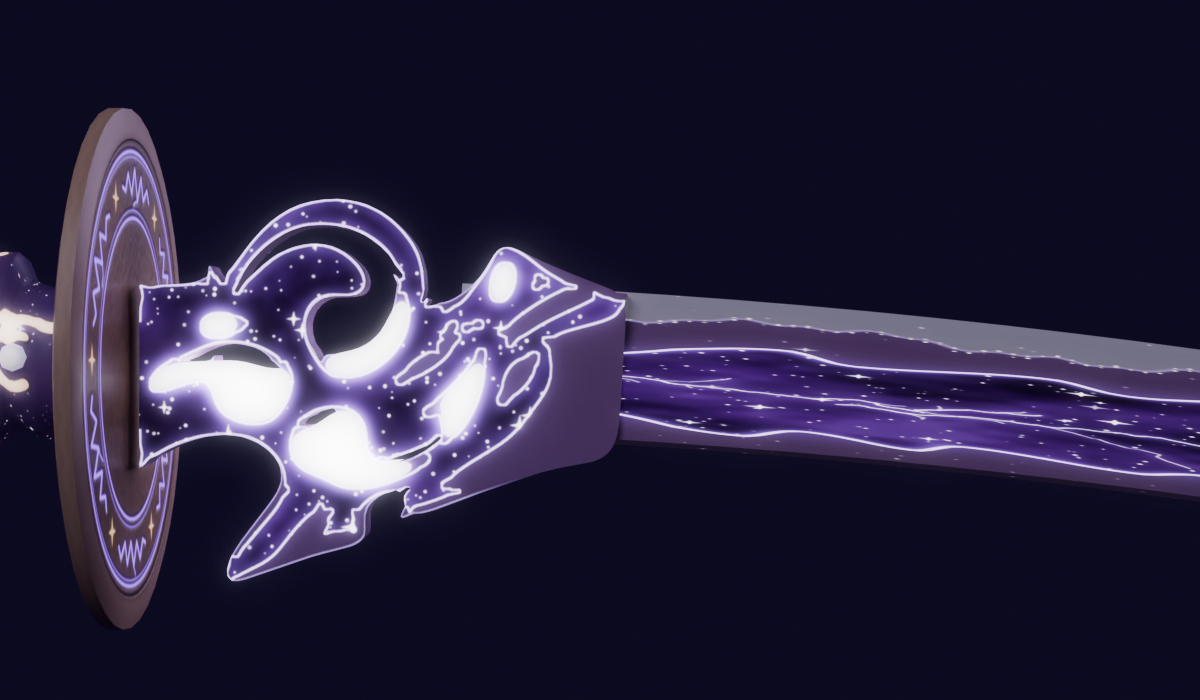
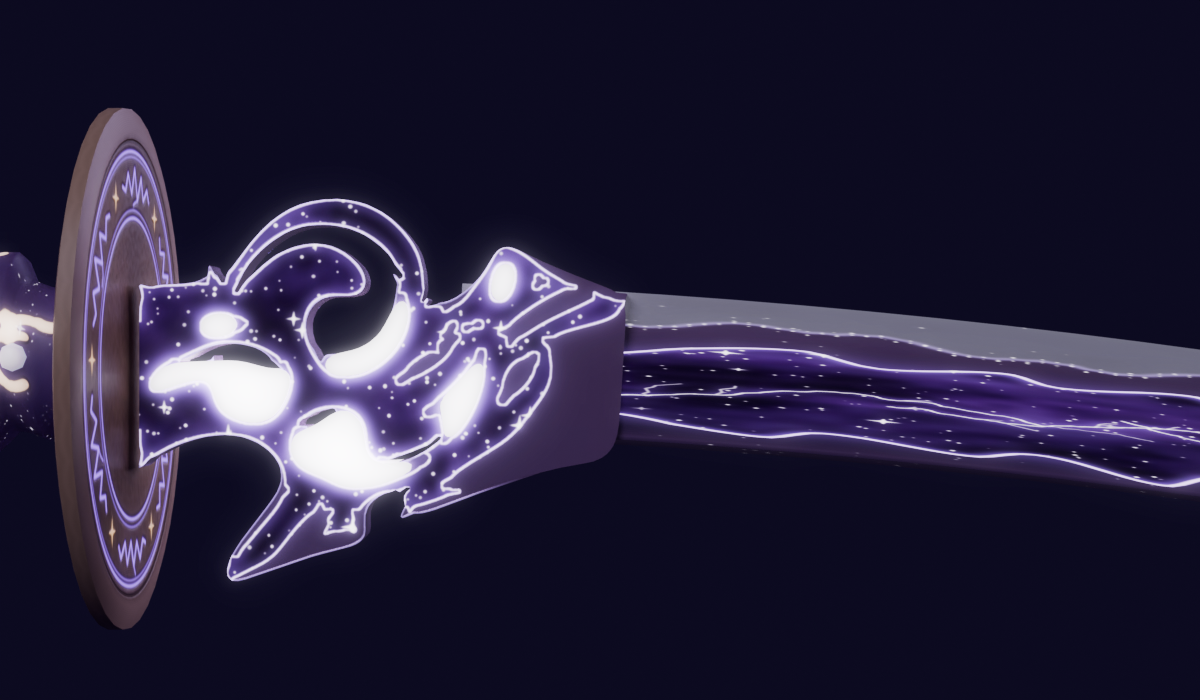
Give the katana blade a real steel look
- Baked polished-steel shading across the blade width (fixing the
  vertical gradient orientation): a bright reflection band on the hira
  near the ridge, a glinting shinogi line, a dark mirror-polished
  shinogi-ji with lengthwise polish lines, a highlight on the mune.
- Subtle itame/mokume grain on the hira, a yokote line at the kissaki.
- Frosted hamon with ashi, nie and utsuri; the boshi turns back at the
  tip; a fine sharpened line along the edge.
- Blade material: metallic 0.35, roughness 0.25 in Blender; README
  suggests lilToon reflection settings.
- Previews re-rendered, preview_steel.png added; textures optimized.

Claude-Session: https://claude.ai/code/session_012gEtFQGHvsjjhHKyZSbX21

diff --git a/katana/make_katana_texture.py b/katana/make_katana_texture.py
@@ -99,6 +99,11 @@ def vgradient(size, stops):
     return img.resize((w, h))
 
 
+def vgradient_v(size, stops):
+    """刀身用: UV の縦 v (0 = 刃先 = 画像の下, 1 = 峰 = 画像の上) で指定する縦のグラデーション。"""
+    return vgradient(size, [(1 - s, c) for s, c in reversed(stops)])
+
+
 def blur(img, r):
     return img.filter(ImageFilter.GaussianBlur(r * F))
 
@@ -271,8 +276,9 @@ def grain(size, along=40, across=1.2, amount=1.0):
 
 
 def draw_blade(maps):
-    """刀身。写真の配色 (灰みのある薄紫の地・深い紫の炎の模様・銀白の刃先) を土台に、
-    真珠のような地の移ろい、地肌の流れ、星雲の模様、光る縁取り、稲妻、星のきらめきで幻想的に。"""
+    """刀身。写真の配色 (灰みのある薄紫の地・深い紫の炎の模様・銀白の刃先) を土台に、本物の刀の鋼の見え方:
+    平地の板目・杢目の地肌、鏡のように磨いた鎬地と磨きの筋、光る鎬の稜線、横手、霜のように白い刃文と足・沸、
+    切っ先の帽子。その上に星雲の模様、光る縁取り、稲妻、星のきらめきで幻想的に。"""
     x0, y0, x1, y1 = uv_box(UV_BLADE)
     w, h = x1 - x0, y1 - y0
     rng = random.Random(11)
@@ -283,41 +289,92 @@ def draw_blade(maps):
     # ---- 地: 真珠のように根元 → 切っ先へ移ろう薄紫 (桜色寄り → 青み → 切っ先は明るく)
     tint = hgradient((w, h), [(0.0, (188, 142, 200)), (0.25, (194, 144, 204)), (0.50, (182, 142, 206)),
                               (0.72, (174, 148, 212)), (0.90, (190, 160, 218)), (1.0, (214, 190, 230))])
-    # 鎬 (v 0.36) に沿った磨きの光の筋と、峰側のわずかな陰
-    shade = vgradient((w, h), [(0.0, (255, 255, 255)), (0.30, (250, 248, 254)), (0.36, (255, 255, 255)),
-                               (0.42, (246, 242, 250)), (0.80, (240, 236, 248)), (1.0, (250, 248, 255))])
+    # 鋼の面の明るさ (UV の縦: 0 = 刃先, 0.55 = 鎬, 0.85 = 峰の肩, 1 = 峰の頂)
+    #   平地: 鎬に近いほど明るい磨きの光 / 鎬: 細く光る稜線 / 鎬地: 鏡のように磨き込んだ一段深い色 / 峰: 中くらい
+    #   (トゥーン系のシェーダーでも金属らしく見えるよう、磨いた鋼の明暗を描き込む)
+    shade = vgradient_v((w, h), [(0.0, (226, 224, 234)), (0.015, (255, 255, 255)), (0.20, (250, 248, 254)),
+                               (0.30, (222, 216, 234)), (0.40, (246, 242, 252)), (0.46, (255, 255, 255)),
+                               (0.51, (244, 240, 250)), (0.545, (255, 255, 255)), (0.552, (255, 255, 255)),
+                               (0.566, (146, 138, 172)), (0.66, (128, 120, 158)), (0.77, (146, 138, 174)),
+                               (0.825, (226, 220, 240)), (0.845, (170, 162, 194)), (0.86, (236, 232, 246)),
+                               (0.93, (210, 204, 230)), (1.0, (186, 180, 210))])
     img = ImageChops.multiply(tint, shade)
-    gr = blur(grain((w, h), along=140, across=3.0, amount=0.9), 1.5)       # 地肌のやわらかな流れ
-    img = ImageChops.multiply(img, Image.merge("RGB", [gr.point(lambda v: int(248 + (v - 128) * 0.05))] * 3))
+    base_glow = img.copy()                                              # 発光の土台 (細部なし)
+    yy, xx = np.mgrid[0:h, 0:w].astype(np.float32)
+    V = 1 - yy / (h - 1)
+    # 平地の地肌: 板目・杢目 (木目のように流れて渦を巻く鍛えの模様)。ゆがませた等高線で描く
+    n1 = np.asarray(Image.effect_noise((max(2, w // int(90 * F)), max(2, h // int(14 * F))), 60)
+                    .resize((w, h), Image.BICUBIC), np.float32) / 255.0
+    n2 = np.asarray(Image.effect_noise((max(2, w // int(30 * F)), max(2, h // int(6 * F))), 60)
+                    .resize((w, h), Image.BICUBIC), np.float32) / 255.0
+    wood = np.sin((V * 80 + n1 * 14.0 + n2 * 3.0) * math.tau) * 0.5 + 0.5
+    wood = wood ** 4                                                      # 細い木目の線に
+    hira = np.clip((0.535 - V) / 0.02, 0, 1) * np.clip(V / 0.03, 0, 1)
+    jihada = Image.fromarray((wood * hira * 255).astype(np.uint8), "L")
+    img.paste((150, 112, 176), (0, 0), blur(jihada, 0.7).point(lambda a: a * 0.07))
+    img.paste((246, 236, 255), (0, 0), ImageChops.offset(blur(jihada, 0.7), 0, int(1 * F)).point(lambda a: a * 0.05))
+    # 鎬地の磨きの筋: 長さ方向にまっすぐ流れる細い線 (鏡のように磨き込んだ跡)
+    pol = np.asarray(Image.effect_noise((max(2, w // int(400 * F)), max(2, int(h / (0.9 * F)))), 50)
+                     .resize((w, h), Image.BICUBIC), np.float32) / 255.0 - 0.5
+    sj = np.clip((V - 0.56) / 0.01, 0, 1) * np.clip((0.84 - V) / 0.01, 0, 1)
+    polish = blur(Image.fromarray(np.clip(128 + pol * sj * 26, 0, 255).astype(np.uint8), "L"), 0.6)
+    img = ImageChops.add(ImageChops.subtract(img, Image.merge("RGB", [polish.point(lambda a: max(0, 128 - a))] * 3)),
+                         Image.merge("RGB", [polish.point(lambda a: max(0, a - 128))] * 3))
+    del n1, n2, wood, hira, pol, sj, yy, xx, V
+    # 鎬の稜線と、刃先のごく細い研ぎ澄ました線
+    lines = Image.new("L", (w, h), 0)
+    ld = ImageDraw.Draw(lines)
+    ld.line([(0, Y(0.55)), (w, Y(0.55))], fill=255, width=max(1, int(2 * F)))
+    img.paste((252, 248, 255), (0, 0), blur(lines, 1.0).point(lambda a: a * 0.7))
+    yok = int(w * 0.88)                                                   # 横手: 切っ先の始まりの線
+    yl = Image.new("L", (w, h), 0)
+    ImageDraw.Draw(yl).line([(yok, Y(0.0)), (yok, Y(0.55))], fill=255, width=max(1, int(2 * F)))
+    img.paste((150, 120, 180), (0, 0), blur(yl, 0.8).point(lambda a: a * 0.6))
+    img.paste((250, 246, 255), (0, 0), ImageChops.offset(blur(yl, 0.8), int(2 * F), 0).point(lambda a: a * 0.6))
 
-    # ---- 刃文: 刃先の銀白の帯 (のたれ + 互の目)。刃先ほど明るく、境目に淡い紫の匂と光る沸
+    # ---- 刃文: 霜のように白い匂の帯 (のたれに互の目)。切っ先では帽子として小丸に返る
     hamon = [(0, Y(0.0))]
     ph = rng.uniform(0, math.tau)
     for xi in range(0, w + 1, int(8 * F)):
         u = xi / w
-        v = 0.15 + 0.025 * math.sin(u * 46 + ph) + 0.012 * math.sin(u * 151 + ph * 2) + 0.008 * math.sin(u * 377)
-        v *= 1.0 if u < 0.9 else max(0.2, 1 - (u - 0.9) * 6)
+        v = 0.17 + 0.03 * math.sin(u * 46 + ph) + 0.015 * math.sin(u * 151 + ph * 2) + 0.01 * abs(math.sin(u * 377))
+        if u > 0.88:                                                      # 帽子: 横手から先はおだやかに、先端で返る
+            v = 0.17 + 0.01 * math.sin(u * 151)
+            if u > 0.97:
+                v *= max(0.0, 1 - (u - 0.97) / 0.03) ** 0.5
         hamon.append((xi, Y(v)))
     hamon.append((w, Y(0.0)))
     hm = Image.new("L", (w, h), 0)
     ImageDraw.Draw(hm).polygon(hamon, fill=255)
-    hm_soft = blur(hm, 2)
-    edge_col = ImageChops.multiply(vgradient((w, h), [(0.0, (244, 242, 250)), (0.12, (228, 224, 236)), (0.2, (214, 208, 228)), (1.0, (214, 208, 228))]),
-                                   Image.merge("RGB", [gr.point(lambda v: int(252 + (v - 128) * 0.03))] * 3))
+    hm_soft = blur(hm, 3)
+    edge_col = vgradient_v((w, h), [(0.0, (248, 248, 252)), (0.03, (236, 234, 244)), (0.10, (232, 230, 242)),
+                                  (0.2, (226, 222, 238)), (1.0, (226, 222, 238))])
+    frost = nebula((w, h), rng, [(226, 222, 238), (240, 238, 248), (250, 250, 255)], scale=70, detail=2)
+    edge_col = ImageChops.multiply(edge_col, Image.blend(frost, Image.new("RGB", (w, h), (255, 255, 255)), 0.35))
     img.paste(edge_col, (0, 0), hm_soft)
-    utsuri = ImageChops.subtract(blur(hm, 18), hm)                     # 刃文の上の霞のような映り
-    img.paste((214, 196, 232), (0, 0), utsuri.point(lambda a: a * 0.35))
-    nioi = Image.new("L", (w, h), 0)                                     # 匂口: 淡い紫に光る細い線
-    ImageDraw.Draw(nioi).line(hamon[1:-1], fill=255, width=int(3 * F))
-    nioi = blur(nioi, 2)
-    img.paste((206, 180, 236), (0, 0), nioi.point(lambda a: a * 0.6))
-    nie = Image.new("L", (w, h), 0)                                      # 沸: 刃文の境目のきらめき
+    # 足: 刃文の境目から刃先へ向かう細い筋
+    ashi = Image.new("L", (w, h), 0)
+    ad = ImageDraw.Draw(ashi)
+    for (xa, ya) in hamon[1:-1:3]:
+        if rng.random() < 0.55 and xa < w * 0.97:
+            ln = h * rng.uniform(0.03, 0.07)
+            ad.line([(xa, ya), (xa + rng.uniform(-3, 3) * F, ya + ln)], fill=rng.randint(120, 220), width=max(1, int(1.6 * F)))
+    ashi = ImageChops.multiply(blur(ashi, 1.2), hm)
+    img.paste((204, 196, 224), (0, 0), ashi.point(lambda a: a * 0.55))
+    # 匂口: 境目の白く明るい霞と、その上の淡い紫の映り
+    nioi = Image.new("L", (w, h), 0)
+    ImageDraw.Draw(nioi).line(hamon[1:-1], fill=255, width=int(5 * F))
+    nioi = blur(nioi, 3)
+    img.paste((250, 248, 255), (0, 0), nioi.point(lambda a: a * 0.7))
+    utsuri = ImageChops.subtract(blur(hm, 22), hm)
+    img.paste((216, 200, 236), (0, 0), utsuri.point(lambda a: a * 0.35))
+    nie = Image.new("L", (w, h), 0)                                      # 沸: 刃文の境目の銀砂のようなきらめき
     nd = ImageDraw.Draw(nie)
     for (xa, ya) in hamon[1:-1]:
-        for _ in range(2):
-            r = rng.uniform(0.5, 1.5) * F
-            yy = ya + rng.uniform(-10, 6) * F
-            nd.ellipse([xa - r, yy - r, xa + r, yy + r], fill=rng.randint(140, 255))
+        for _ in range(3):
+            r = rng.uniform(0.5, 1.4) * F
+            yy_ = ya + rng.uniform(-12, 8) * F
+            nd.ellipse([xa - r, yy_ - r, xa + r, yy_ + r], fill=rng.randint(140, 255))
 
     # ---- 中央の紫の模様: なめらかに揺らめく炎の形 (形は前と同じ)
     start, end = w * 0.075, w * 0.84
@@ -366,6 +423,7 @@ def draw_blade(maps):
         sd.line(pts, fill=255, width=int(rng.uniform(8, 18) * F))
     silk = blur(silk, 9)
     core.paste((150, 104, 210), (0, 0), silk.point(lambda a: a * 0.30))
+    core = ImageChops.multiply(core, Image.blend(shade, Image.new("RGB", (w, h), (255, 255, 255)), 0.45))   # 模様にも鋼の明暗
     img.paste(core, (0, 0), mask)
     # 縁取り: 内側の細く明るい線 + その内側のやわらかな光
     inner = blur(hard, 3).point(lambda a: 255 if a > 240 else 0)
@@ -402,8 +460,8 @@ def draw_blade(maps):
     img.paste(GLOW_WHITE, (0, 0), blur(nie, 0.6).point(lambda a: a * 0.7))
 
     # ---- 発光: 昼は写真の色のまま、暗い所では模様の縁・稲妻・星・刃文が光る
-    emis = scale_rgb(ImageChops.multiply(tint, shade), 0.10)   # 地のほのかな光 (地肌の細部は省いてファイルを軽く)
-    emis.paste(scale_rgb(edge_col, 0.10), (0, 0), hm_soft)
+    emis = scale_rgb(base_glow, 0.10)               # 地のほのかな光 (地肌の細部は省いてファイルを軽く)
+    emis.paste(scale_rgb(edge_col, 0.12), (0, 0), hm_soft)
     emis.paste(scale_rgb(blur(core, 3), 0.35), (0, 0), mask)
     emis.paste((96, 60, 160), (0, 0), halo.point(lambda a: a * 0.6))
     emis.paste((150, 110, 230), (0, 0), rim_soft.point(lambda a: min(255, a * 1.4)))
@@ -416,10 +474,11 @@ def draw_blade(maps):
     emis.paste(GLOW_WHITE, (0, 0), ImageChops.lighter(blur(dust, 0.5), blur(nie, 0.6)))
     maps.put(UV_BLADE, img, emis)
 
-    # 凹凸: 模様はなめらかに彫り込み、縁取りはわずかに盛り上がる。地肌の流れ
+    # 凹凸: 模様はなめらかに彫り込み、縁取りはわずかに盛り上がる。地肌と横手
     maps.bump(UV_BLADE, blur(hard, 2.5), -0.05)
     maps.bump(UV_BLADE, rim, 0.03)
-    maps.bump(UV_BLADE, gr, 0.008)
+    maps.bump(UV_BLADE, blur(jihada, 1.0), 0.006)                     # 地肌のわずかな起伏
+    maps.bump(UV_BLADE, blur(yl, 0.8), -0.04)                         # 横手の線
 
 
 # ---------------------------------------------------------------- 柄

diff --git a/katana/make_katana.py b/katana/make_katana.py
@@ -192,7 +192,7 @@ def load_texture(name):
     return img
 
 
-def make_material(name, albedo, normal, roughness, emission_img=None, emission=0.0):
+def make_material(name, albedo, normal, roughness, emission_img=None, emission=0.0, metallic=0.0):
     old = bpy.data.materials.get(name)
     if old:
         bpy.data.materials.remove(old)
@@ -206,6 +206,7 @@ def make_material(name, albedo, normal, roughness, emission_img=None, emission=0
     tex.location = (-500, 300)
     nt.links.new(tex.outputs["Color"], bsdf.inputs["Base Color"])
     bsdf.inputs["Roughness"].default_value = roughness
+    bsdf.inputs["Metallic"].default_value = metallic
     # ノーマルマップ (柄巻きの盛り上がり・金の彫り・模様の縁の溝)
     ntex = nt.nodes.new("ShaderNodeTexImage")
     ntex.image = normal
@@ -545,7 +546,7 @@ def build_scene():
 
     me, origin = build_mesh()
     albedo, emis, normal = (load_texture(n) for n in TEXTURES)
-    me.materials.append(make_material(BLADE_MATERIAL, albedo, normal, roughness=0.3, emission_img=emis, emission=1.5))
+    me.materials.append(make_material(BLADE_MATERIAL, albedo, normal, roughness=0.25, emission_img=emis, emission=1.5, metallic=0.35))
     me.materials.append(make_material(HILT_MATERIAL, albedo, normal, roughness=0.35, emission_img=emis, emission=1.0))
     katana = bpy.data.objects.new(OBJECT_NAME, me)
     coll.objects.link(katana)

diff --git a/katana/README.md b/katana/README.md
@@ -29,6 +29,10 @@
 
 ![day](export/preview_day.png)
 
+刀身の鋼の質感 (上: 根元側 / 下: 切っ先。明るい場所、トゥーン系に近い見え方):
+
+![steel](export/preview_steel.png)
+
 金色の楕円の鍔と柄 (斜めから):
 
 ![grip](export/preview_grip.png)
@@ -53,12 +57,12 @@
 | マテリアル | 2 個: `Katana_Blade` (光る部分: 刃・付け根の飾り板・白い巴) / `Katana_Hilt` (鍔・柄・鋲・紐。金の線・稲妻・星・象嵌だけがほのかに光る) |
 | テクスチャ | 3 枚 (色とノーマルは 8192×8192、発光は 4096×4096。2 つのマテリアルで共有、FBX には埋め込まず隣に置く): `Katana_Atlas.png` (色) / `Katana_Emission.png` (発光) / `Katana_Normal.png` (ノーマルマップ) |
 | 色 | 参考画像 (コスプレ用の刀の写真) の色を部位ごとに測って合わせた配色: 刀身の地は灰みのある薄紫、模様と飾り板の濃い部分は深い紫、刃先は銀白、巴は少し灰みのある白、鍔はブロンズ寄りの金、柄は灰みのある赤紫、金の線は淡いシャンパン色、紐は赤 |
-| 刀身 | 地は根元から切っ先へ真珠のように移ろう薄紫 (桜色寄り → 青み → 明るい切っ先)、鎬に沿った磨きの光の筋、やわらかな地肌の流れ。炎の形の模様の中は赤紫と青紫がゆらぐ星雲で、光る縁取り・枝分かれする稲妻・大小の星のきらめき。刃先は銀白の帯 (刃文) に淡い紫の匂と光る沸、その上に霞のような映り |
+| 刀身 | 地は根元から切っ先へ真珠のように移ろう薄紫 (桜色寄り → 青み → 明るい切っ先)。本物の刀の鋼の見え方: 平地は鎬寄りに明るい反射の帯と、板目・杢目の細かな地肌。鎬の稜線は細く光り、鎬地は鏡のように暗く磨き込んだ帯に長さ方向の磨きの筋。峰の肩に光の筋。切っ先に横手の線。炎の形の模様の中は赤紫と青紫がゆらぐ星雲で、光る縁取り・枝分かれする稲妻・大小の星のきらめき。刃文は霜のように白い匂の帯 (のたれに互の目) で、境目から刃先へ向かう足、銀砂のような沸、その上に霞のような映り。切っ先では帽子として小丸に返る。刃先には研ぎ澄ました細い線 |
 | 飾り板の質感 | 濃い紫は星雲と星屑。濃い紫の縁と飾り板の輪郭に、太さのそろった光る線。白い巴のまわりに紫の光。薄い紫は刀身の地とつながる真珠のような色 |
 | 柄の質感 | 金の線は中央が明るく縁が濃い丸い線 (まわりに細い影)、紫の地に赤紫と青紫の星雲のゆらぎ、細い稲妻、星のきらめき。金の線の中央に磨いた光の筋ときらめき、赤い紐は撚りの細かい筋、鋲は真珠のような白 |
 | 鍔の質感 | 同心円の細かい磨き目とごく細かい槌目、外側の耳は明るく磨いた金、耳の内側に細い溝。面に二重の彫り線と、輪に沿って走る 6 本の稲妻の象嵌 (刀身と同じ深い紫の漆)、稲妻の間に金の星 |
 | 発光 | 昼は写真の色のまま、暗い所で幻想的に光る: 模様の中の星雲がほのかに紫に、模様と飾り板の縁取り・稲妻・星・刃文の匂と沸は強く、白い巴も白く光る。地はごくほのか。柄は金の線がやわらかな金色に、稲妻と星が白く光り、鋲は真珠のように淡く光る。鍔は稲妻の象嵌が紫に、星が金に光る |
-| 凹凸 | ノーマルマップ: 柄の金の線の盛り上がり、紐の撚り、鍔の稲妻の象嵌のくぼみ、刀身の模様のなめらかな彫り込み、飾り板の濃い紫の彫り込み、鍔の槌目と溝 |
+| 凹凸 | ノーマルマップ: 柄の金の線の盛り上がり、紐の撚り、鍔の稲妻の象嵌のくぼみ、刀身の地肌のわずかな起伏と横手の線、刀身の模様のなめらかな彫り込み、飾り板の濃い紫の彫り込み、鍔の槌目と溝 |
 | 動作確認 | Blender 5.1.2 |
 
 ## ファイル
@@ -90,6 +94,7 @@
   - メインカラー: `Katana_Atlas.png`
   - ノーマルマップ: 「ノーマルマップ」をオンにして `Katana_Normal.png`
   - 発光: 「発光」をオンにして、テクスチャに `Katana_Emission.png`、色は白。目安の明るさは `Katana_Blade` 1.5、`Katana_Hilt` 1.0
+  - 鋼のつやを足したいとき (`Katana_Blade`): 「反射」をオンにして、滑らかさ 0.75〜0.85、金属度 0.3〜0.4 くらい。上げすぎると色が白っぽく飛びます
 - 写真の色のまま見せたいときは発光の明るさを 1 以下に、幻想的に光らせたいときは 1.5〜2 くらいに上げてください (ブルームのあるワールドでは稲妻や星屑がにじんで光ります)。
 - 色とノーマルマップは 8192×8192、発光は 4096×4096 です。Unity のテクスチャ設定の **Max Size を 8192** にすると最大の解像度で使えます。
   ただし VRChat ではテクスチャのメモリが大きくなり、パフォーマンスランクが下がります (8192 は 1 枚で約 85MB)。
